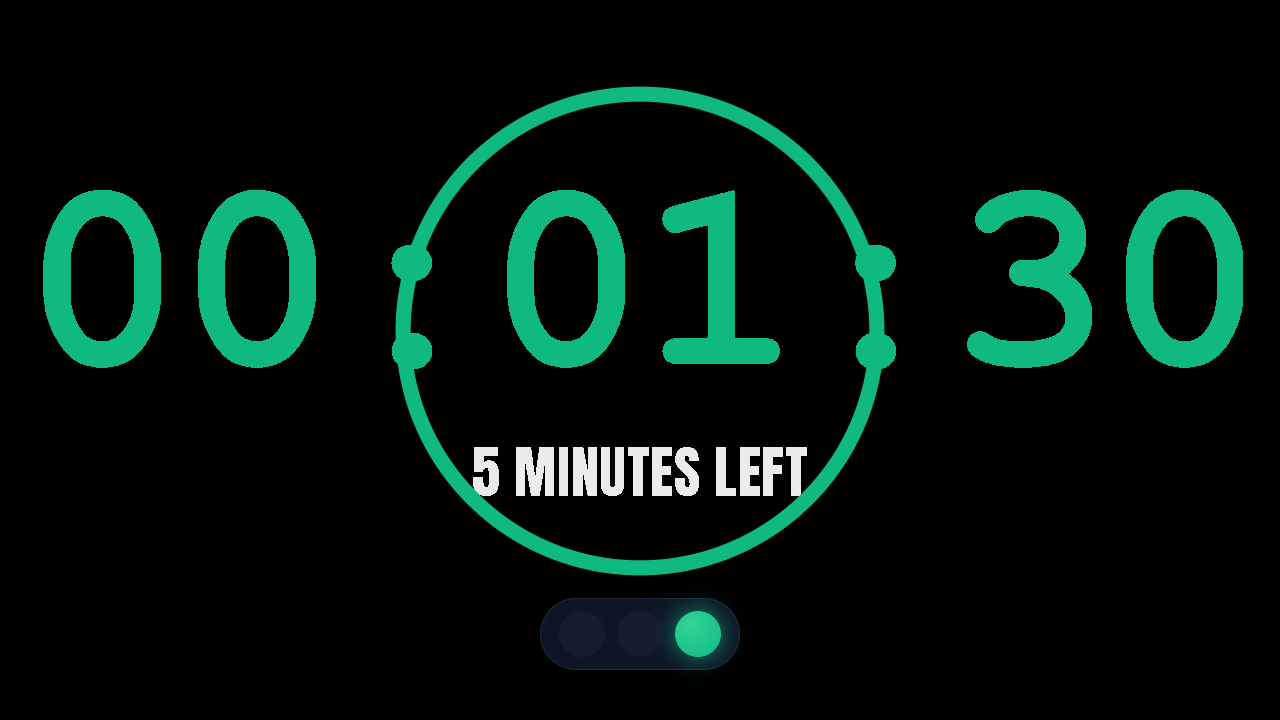
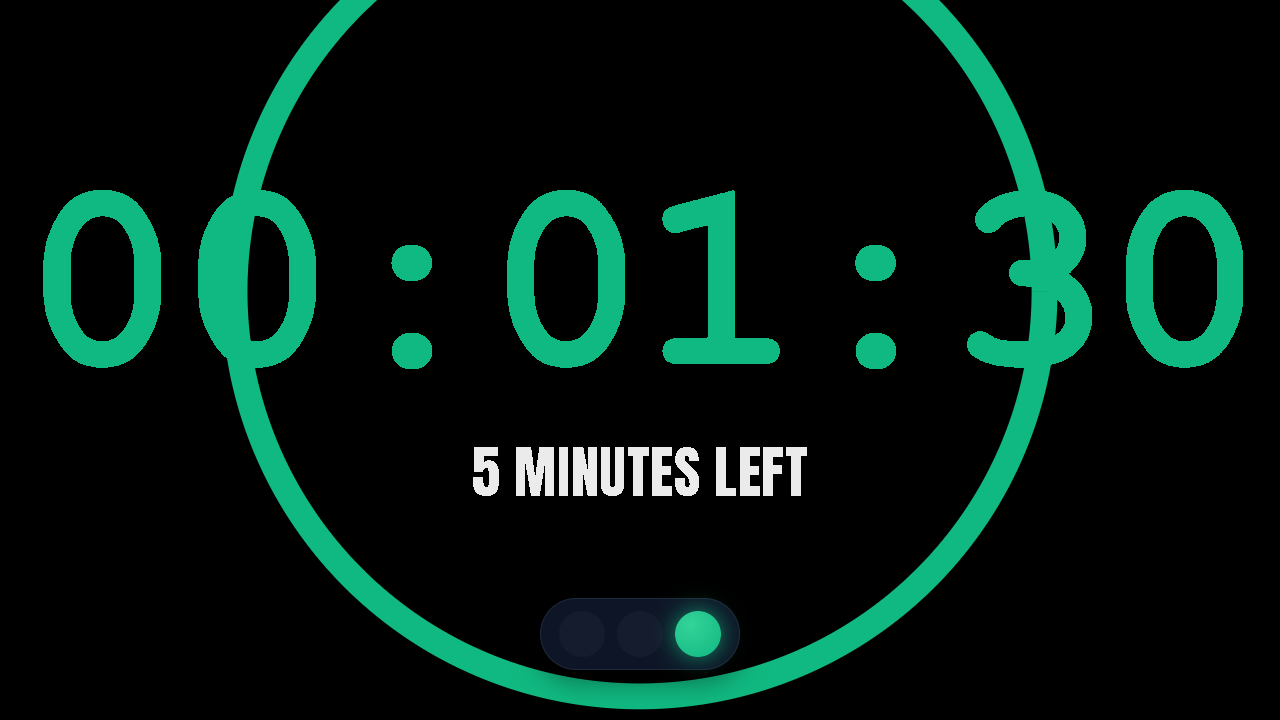
v1.7.3: fix prestart frozen countdown tick and ring overlap (ring wraps timer text), add regression test

diff --git a/public/presenter.html b/public/presenter.html
@@ -45,6 +45,12 @@
             justify-content: center;
             text-align: center;
         }
+        .timer-wrap {
+            position: relative;
+            display: flex;
+            align-items: center;
+            justify-content: center;
+        }
         .timer {
             font-weight: 700;
             letter-spacing: -0.02em;
@@ -52,6 +58,8 @@
             line-height: 1;
             text-align: center;
             white-space: nowrap;
+            position: relative;
+            z-index: 2;
         }
         .caption {
             color: #fff;
@@ -78,8 +86,11 @@
         .message.hidden { opacity: 0; }
         .ring {
             position: absolute;
+            left: 50%;
+            top: 50%;
             transform: translate(-50%, -50%);
             pointer-events: none;
+            z-index: 1;
         }
         .ring circle {
             fill: none;
@@ -397,10 +408,10 @@
                     cap.id = 'caption';
                     stack.appendChild(cap);
 
-                    var timerDiv = document.createElement('div');
-                    timerDiv.className = 'timer';
-                    timerDiv.id = 'timer';
-                    stack.appendChild(timerDiv);
+                    var timerWrap = document.createElement('div');
+                    timerWrap.className = 'timer-wrap';
+                    timerWrap.id = 'timer-wrap';
+                    stack.appendChild(timerWrap);
 
                     if ((s.settings && s.settings.ringEnabled) && s.mode !== 'countup') {
                         var ring = document.createElementNS('http://www.w3.org/2000/svg', 'svg');
@@ -413,8 +424,13 @@
                         circ.setAttribute('r', '47');
                         circ.setAttribute('stroke-dasharray', '295.3');
                         ring.appendChild(circ);
-                        stage.appendChild(ring);
+                        timerWrap.appendChild(ring);
                     }
+
+                    var timerDiv = document.createElement('div');
+                    timerDiv.className = 'timer';
+                    timerDiv.id = 'timer';
+                    timerWrap.appendChild(timerDiv);
 
                     var msgDiv = document.createElement('div');
                     msgDiv.className = 'message';
@@ -481,14 +497,14 @@
 
             var ring = document.getElementById('ring');
             if (ring) {
-                var cfg3 = cfg;
-                ring.style.left = (cfg3.timerX !== undefined ? cfg3.timerX : 50) + '%';
-                ring.style.top = (cfg3.timerY !== undefined ? cfg3.timerY : 46) + '%';
-                var ringSize = getTimerSize(cfg3) * 7.2;
-                ring.style.width = ringSize + 'vw';
-                ring.style.height = ringSize + 'vw';
-                ring.style.maxWidth = '70vh';
-                ring.style.maxHeight = '70vh';
+                var el2 = getTimerEl();
+                if (el2) {
+                    // Size the ring around the actual timer text (resolution independent)
+                    var rect = el2.getBoundingClientRect();
+                    var ringSize = Math.max(rect.height * 3.2, 60);
+                    ring.style.width = ringSize + 'px';
+                    ring.style.height = ringSize + 'px';
+                }
                 var pct = 1;
                 if (s.mode !== 'countup' && s.initialTime > 0) {
                     pct = Math.max(0, Math.min(1, s.activeTime / s.initialTime));
@@ -496,10 +512,10 @@
                 var circ = ring.querySelector('circle');
                 if (circ) {
                     circ.setAttribute('stroke-dashoffset', String(295.3 * (1 - pct)));
-                    var ringColor = cfg3.colorNormal || '#10b981';
-                    if (s.alertLevel === 'expired') ringColor = cfg3.colorExpired || '#ef4444';
-                    else if (s.alertLevel === 'danger') ringColor = cfg3.colorDanger || '#f97316';
-                    else if (s.alertLevel === 'warning') ringColor = cfg3.colorWarning || '#f59e0b';
+                    var ringColor = cfg.colorNormal || '#10b981';
+                    if (s.alertLevel === 'expired') ringColor = cfg.colorExpired || '#ef4444';
+                    else if (s.alertLevel === 'danger') ringColor = cfg.colorDanger || '#f97316';
+                    else if (s.alertLevel === 'warning') ringColor = cfg.colorWarning || '#f59e0b';
                     circ.setAttribute('stroke', ringColor);
                 }
             }

diff --git a/server.js b/server.js
@@ -389,7 +389,7 @@ setInterval(() => {
     if (!state.isRunning) return;
     const now = Date.now();
 
-    if (state.mode === 'countdown') {
+    if (state.mode === 'countdown' || state.mode === 'prestart') {
         if (countdownEndTime === null) {
             countdownEndTime = now + state.timeLeft * 1000;
         }
@@ -470,7 +470,7 @@ app.get('/api/state', (req, res) => res.json(state));
 
 app.get('/api/start', (req, res) => {
     const now = Date.now();
-    if (state.mode === 'countdown') {
+    if (state.mode === 'countdown' || state.mode === 'prestart') {
         countdownEndTime = now + state.timeLeft * 1000;
     } else if (state.mode === 'countup') {
         countupStartTime = now - state.countupTime * 1000;
@@ -499,7 +499,7 @@ app.get('/api/toggle_playback', (req, res) => {
         sendOSC('pause', 0);
     } else {
         const now = Date.now();
-        if (state.mode === 'countdown') {
+        if (state.mode === 'countdown' || state.mode === 'prestart') {
             countdownEndTime = now + state.timeLeft * 1000;
         } else if (state.mode === 'countup') {
             countupStartTime = now - state.countupTime * 1000;
@@ -545,7 +545,7 @@ app.get('/api/add', (req, res) => {
     if (state.mode === 'countup') {
         state.countupTime += sec;
         if (state.isRunning) countupStartTime -= sec * 1000;
-    } else if (state.mode === 'countdown') {
+    } else if (state.mode === 'countdown' || state.mode === 'prestart') {
         state.timeLeft += sec;
         if (state.isRunning) countdownEndTime += sec * 1000;
     } else if (state.mode === 'agenda' && state.agendaActive) {
@@ -572,7 +572,7 @@ app.get('/api/mode', (req, res) => {
         captureUndo();
         if (state.isRunning) {
             const now = Date.now();
-            if (req.query.set === 'countdown') {
+            if (req.query.set === 'countdown' || req.query.set === 'prestart') {
                 countdownEndTime = now + state.timeLeft * 1000;
             } else if (req.query.set === 'countup') {
                 countupStartTime = now - state.countupTime * 1000;

diff --git a/tests/server.test.js b/tests/server.test.js
@@ -178,6 +178,19 @@ test('prestart mode and undo on mode change', async () => {
     assert.strictEqual(r.status, 200);
 });
 
+test('prestart mode keeps the countdown ticking', async () => {
+    await api('/api/reset?sec=3');
+    await api('/api/start');
+    await new Promise((r) => setTimeout(r, 500));
+    await api('/api/mode?set=prestart');
+    await new Promise((r) => setTimeout(r, 1200));
+    const r = await json('/api/state');
+    assert.strictEqual(r.body.mode, 'prestart');
+    assert.ok(r.body.timeLeft < 3, 'prestart should keep counting down');
+    await api('/api/mode?set=countdown');
+    await api('/api/pause');
+});
+
 test('PIN protection', async () => {
     // Set PIN
     let r = await api('/api/settings', {

diff --git a/public/index.html b/public/index.html
@@ -854,7 +854,7 @@
     </div>
 
     <footer class="app-footer">
-        <span id="footer-text">Copyright © Smart Timer Pro v1.7.2 - All Rights Reserved - Nelson Teixeira @ Smartchoice 2026</span>
+        <span id="footer-text">Copyright © Smart Timer Pro v1.7.3 - All Rights Reserved - Nelson Teixeira @ Smartchoice 2026</span>
         <span id="shortcuts-hint" data-i18n="shortcuts_hint">Shortcuts: Space = GO/PAUSE · R = RESET · M = Message · Ctrl+Z = Undo</span>
     </footer>
 

diff --git a/docs/CHANGELOG.md b/docs/CHANGELOG.md
@@ -1,5 +1,11 @@
 # Changelog
 
+## [1.7.3] - 2026-09-15
+
+### Bug Fixes
+- **Prestart frozen timer**: switching to Prestart while the countdown was running stopped the tick (the display froze). Prestart now counts down like countdown (stop-at-zero included) and switching back continues normally
+- **Ring overlap in Prestart**: the progress ring was centered on the whole stack, crossing the timer text when a caption was visible. The ring now wraps the timer text itself and renders behind it
+
 ## [1.7.2] - 2026-09-15
 
 ### Improvements
